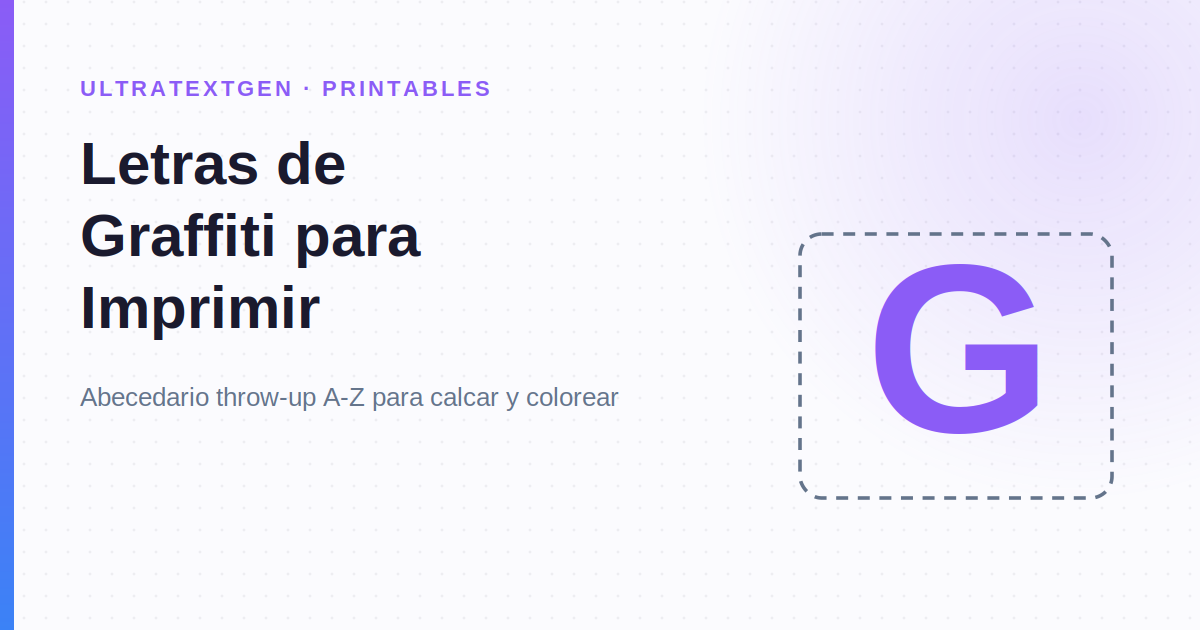
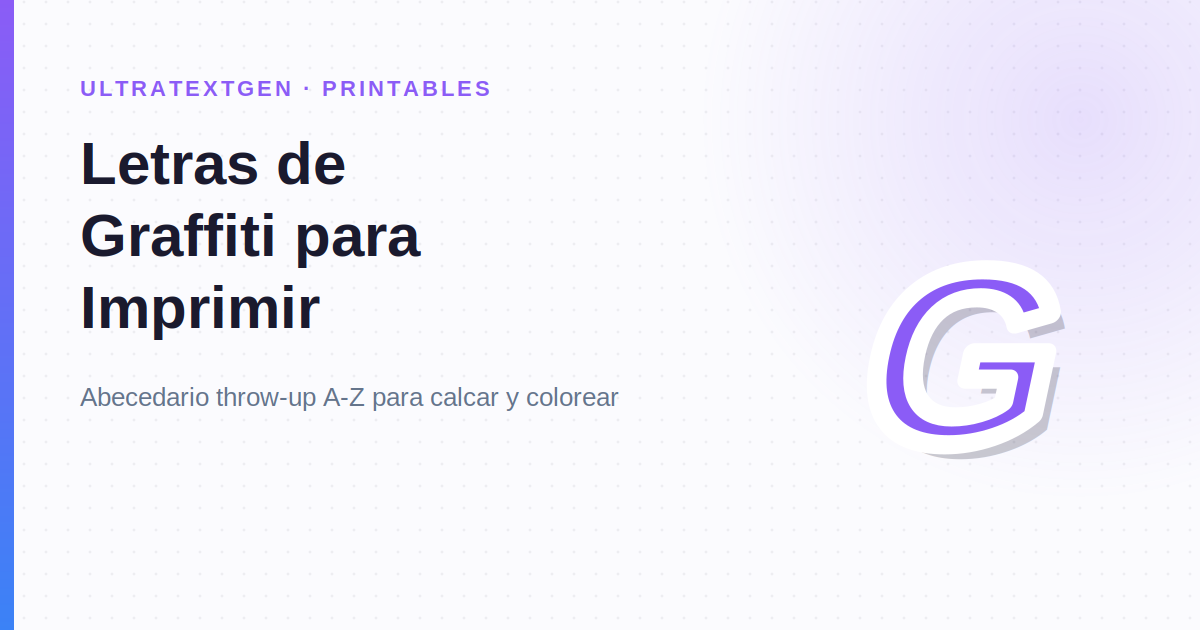
feat(printables): tell the cards apart, on the hub and in the share preview
OUT-09, OUT-10 and OUT-11 -- the three "these look identical" findings. All
three were unblocked by installing the art pipeline's own dependencies
(cairosvg, fontTools, fonts-noto-core/cjk): 8 of the 15 font paths
generate-site-art.py names were missing here, and CLAUDE.md is explicit that a
missing font silently DELETES glyphs from a regenerated card. Verified safe
before touching anything: a --force re-render of 37 untouched pages leaves
`git status` empty, so this container reproduces the committed art byte for
byte.

OUT-11 -- cursive vs calligraphy carried the SAME italic-serif "Aa" badge; only
the title differed (measured: 4.94% of pixels, nearly all of it the title).
The calligraphy card's own sub-label already said "blackletter & script", so
the badge now says it too, in real Fraktur. FreeSerif is the one installed face
covering U+1D504.., and cairosvg has no per-glyph fallback -- it takes the
first matched family and draws tofu for anything it lacks -- so FRAKTUR leads
with FreeSerif rather than falling back to it. Confirmed by reading the
rendered PNG, which is the only place it was visible.

OUT-09 -- the graffiti pages shared m_letter_stencil with block-letters, so the
card for the site's graffiti alphabet was a plain sans G inside a dashed CUT
LINE: a stencil job, on the one printable family that is not one. m_letter_
graffiti gives it slant, a heavy white keyline and a hard offset shadow, which
[…]

diff --git a/printables/index.html b/printables/index.html
@@ -348,14 +348,14 @@ window.__h82AlnkH6D91__("WyJwdWItODI0MjMyNDE2NDQxMzk0NSIsW251bGwsbnVsbCxudWxsLCJ
         </a>
 
         <a class="printable-card" href="/printables/alphabet-coloring-pages/" data-pt-job="colour" data-pt-input="ready">
-          <span class="printable-card-art" aria-hidden="true">A B C</span>
+          <span class="printable-card-art" aria-hidden="true">𝔸 𝔹 ℂ</span>
           <h3>Alphabet Coloring Pages</h3>
           <p>Clean single-line letter outlines A–Z to color and print: a page for every letter with an example word, plus a one-click print of the whole ABC.</p>
           <span class="printable-card-cta">Open alphabet coloring pages →</span>
         </a>
 
         <a class="printable-card" href="/printables/graffiti-letters/" data-pt-job="colour" data-pt-input="typed">
-          <span class="printable-card-art" aria-hidden="true">A B C</span>
+          <span class="printable-card-art" aria-hidden="true">FRESH</span>
           <h3>Graffiti Letters &amp; Graffiti Generator</h3>
           <p>The graffiti throw-up alphabet A–Z and 0–9 in fat outlines to trace and color, plus a generator: type your name, pick one of five graffiti styles, color it and download the PNG.</p>
           <span class="printable-card-cta">Open the graffiti generator →</span>
@@ -383,7 +383,7 @@ window.__h82AlnkH6D91__("WyJwdWItODI0MjMyNDE2NDQxMzk0NSIsW251bGwsbnVsbCxudWxsLCJ
         </a>
 
         <a class="printable-card" href="/printables/block-letters/" data-pt-job="craft" data-pt-input="ready">
-          <span class="printable-card-art" aria-hidden="true">A B C</span>
+          <span class="printable-card-art" aria-hidden="true">▢ ▣ ▤</span>
           <h3>Block Letters &amp; Stencils</h3>
           <p>Bold hollow block letters and numbers: letter stencils, alphabet stencils, and number stencils to print, trace, and cut out for signs, posters, and banners.</p>
           <span class="printable-card-cta">Open block letters →</span>
@@ -425,7 +425,7 @@ window.__h82AlnkH6D91__("WyJwdWItODI0MjMyNDE2NDQxMzk0NSIsW251bGwsbnVsbCxudWxsLCJ
         </a>
 
         <a class="printable-card" href="/printables/dot-to-dot-name/" data-pt-job="play" data-pt-input="typed">
-          <span class="printable-card-art" aria-hidden="true">1 2 3</span>
+          <span class="printable-card-art" aria-hidden="true">E·m·m·a</span>
           <h3>Dot-to-Dot Name Generator</h3>
           <p>Type any name to build a personalized connect-the-dots puzzle: numbered dots trace each letter, with adjustable difficulty from easy to expert. Print or download a PNG.</p>
           <span class="printable-card-cta">Open the dot-to-dot name generator →</span>

diff --git a/es/imprimibles/index.html b/es/imprimibles/index.html
@@ -235,7 +235,7 @@ window.__h82AlnkH6D91__("WyJwdWItODI0MjMyNDE2NDQxMzk0NSIsW251bGwsbnVsbCxudWxsLCJ
         </a>
 
         <a class="printable-card" href="/es/imprimibles/abecedario-para-colorear/">
-          <span class="printable-card-art" aria-hidden="true">A B C</span>
+          <span class="printable-card-art" aria-hidden="true">𝔸 𝔹 ℂ</span>
           <h3>Abecedario para colorear</h3>
           <p>Grandes contornos de letras A–Z para colorear e imprimir — una página para cada letra con una palabra de ejemplo, más la impresión de todo el alfabeto con un clic.</p>
           <span class="printable-card-cta">Abrir el abecedario para colorear →</span>
@@ -249,7 +249,7 @@ window.__h82AlnkH6D91__("WyJwdWItODI0MjMyNDE2NDQxMzk0NSIsW251bGwsbnVsbCxudWxsLCJ
         </a>
 
         <a class="printable-card" href="/es/imprimibles/letras-graffiti/">
-          <span class="printable-card-art" aria-hidden="true">A B C</span>
+          <span class="printable-card-art" aria-hidden="true">BARRIO</span>
           <h3>Letras de graffiti y generador de graffiti</h3>
           <p>El abecedario de graffiti estilo throw-up, A–Z y 0–9, en contornos gordos para calcar y colorear — más un generador: escribe tu nombre, elige uno de los cinco estilos, coloréalo y descarga el PNG.</p>
           <span class="printable-card-cta">Abrir el generador de graffiti →</span>

diff --git a/scripts/generate-site-art.py b/scripts/generate-site-art.py
@@ -46,6 +46,11 @@ PANEL2 = "#F2F1FB"
 SANS = "Liberation Sans, DejaVu Sans, sans-serif"
 SERIF = "Georgia, 'Liberation Serif', 'DejaVu Serif', serif"
 SYM = "DejaVu Sans, sans-serif"  # raster-safe symbol coverage
+# The one installed family covering Mathematical Fraktur / Script
+# (U+1D504.., U+1D49C..). cairosvg has no per-glyph fallback -- it takes the
+# first matched family and draws tofu for anything that family lacks -- so a
+# Fraktur sample has to lead with FreeSerif, not fall back to it.
+FRAKTUR = "FreeSerif, Georgia, serif"
 SYM_PRIMARY = "DejaVu Sans"      # SYM's first family; see spanned()
 
 # ---------------------------------------------------------------- shared defs
@@ -974,10 +979,40 @@ def m_letter_bubble(p, letter="A"):
           fill="#fff" text-anchor="middle">{esc(letter)}</text>"""
 
 
+def m_letter_graffiti(p, letter="G"):
+    """A slanted throw-up letter with a white keyline and a hard offset shadow
+    - graffiti printables.
+
+    OUT-09: these pages shared m_letter_stencil with block-letters, so the card
+    for the site's graffiti alphabet was a plain sans G inside a dashed CUT
+    LINE - a stencil job, on the one printable family that is not one. Slant, a
+    heavy keyline and an offset drop shadow are the three marks of a throw-up,
+    and none of them needs a graffiti typeface, which this pipeline has no way
+    to load: it draws in Liberation and DejaVu, never in a page's own webfont.
+    """
+    l = esc(letter)
+    return f"""
+    <g transform="translate(180 200) skewX(-12) translate(-180 -200)">
+      <text x="194" y="256" font-family="{SANS}" font-size="205" font-weight="800"
+            fill="{INK}" opacity="0.22" text-anchor="middle">{l}</text>
+      <text x="180" y="244" font-family="{SANS}" font-size="205" font-weight="800"
+            fill="url(#g{p})" stroke="#fff" stroke-width="16" paint-order="stroke"
+            stroke-linejoin="round" text-anchor="middle">{l}</text>
+    </g>"""
+
+
 def m_letter_cursive(p, letter="A"):
     """Capital + lowercase pair in italic serif — cursive per-letter printables.
     Italic serif is the raster-safe stand-in for script glyphs (the Unicode
-    Mathematical Script block does not rasterize in the bundled fonts)."""
+    Mathematical Script block does not rasterize in the bundled fonts).
+
+    Correction, 2026-09-17: that parenthesis is no longer true. FreeSerif, which
+    this file already lists among its fallback faces, covers U+1D49C.. and
+    U+1D504..; measured by rendering, the calligraphy card now draws real
+    Fraktur through it (see FRAKTUR). These 26 per-letter cards are left on
+    italic serif DELIBERATELY rather than by that constraint: changing them is a
+    26-page re-render on a live cluster and a letterform decision, not a
+    rasterisation fact."""
     return f"""
     <rect x="40" y="90" width="280" height="200" rx="36" fill="url(#g{p})"/>
     <line x1="70" y1="252" x2="290" y2="252" stroke="#fff" stroke-width="3" opacity="0.55" stroke-dasharray="2 7"/>
@@ -2911,7 +2946,7 @@ PAGES.update({
 "events-valentines-day": ("Valentine's Day Text Generator", "Hearts, roses, and Be My Valentine phrases to style", m_heart, K_USE),
 "printables-banner-maker": ("Printable Banner Maker", "One flag per letter, cut and strung to spell any word", m_banner, K_PRINT),
 "printables-block-letters": ("Printable Block Letters & Stencils", "Bold hollow A-Z & 0-9 stencils to trace, cut and use", P(m_letter_stencil, letter="B"), K_PRINT),
-"printables-calligraphy-alphabet": ("Calligraphy Alphabet", "Blackletter and script letters to trace and print", P(m_typo, sample="Aa", ff=SERIF, weight="800", style="italic", size=90, label="blackletter & script"), K_PRINT),
+"printables-calligraphy-alphabet": ("Calligraphy Alphabet", "Blackletter and script letters to trace and print", P(m_typo, sample="\U0001D504\U0001D51E", ff=FRAKTUR, weight="400", style="normal", size=104, label="blackletter & script"), K_PRINT),
 "printables-coloring-page-maker": ("Coloring Page Maker", "Any name or word becomes a colorable outline to print", m_crayons, K_PRINT),
 "printables-dot-to-dot-name": ("Dot-to-Dot Name Generator", "Any name becomes a personalized connect-the-dots", P(m_letter_dots, letter="Em"), K_PRINT),
 "printables-cursive-alphabet": ("Cursive Alphabet", "Cursive A-Z practice sheets to trace and print", P(m_typo, sample="Aa", ff=SERIF, style="italic", weight="400", size=92, label="cursive practice"), K_PRINT),
@@ -2943,12 +2978,12 @@ PAGES.update({
 "fr-imprimables-alphabet-point-de-croix": ("Alphabet Point de Croix", "N'importe quel mot en grille de points", m_grid, K_PRINT),
 "es-imprimibles-letras-punteadas": ("Letras Punteadas para Imprimir", "Abecedario A-Z en puntos numerados para unir", P(m_letter_dots, letter="A"), K_PRINT),
 # 2026-08-12 ES printables gap-fill + graffiti EN parent.
-"printables-graffiti-letters": ("Printable Graffiti Letters", "Throw-up alphabet A-Z to trace, outline and colour", P(m_letter_stencil, letter="G"), K_PRINT),
-"es-imprimibles-letras-graffiti": ("Letras de Graffiti para Imprimir", "Abecedario throw-up A-Z para calcar y colorear", P(m_letter_stencil, letter="G"), K_PRINT),
-"de-zum-ausdrucken-graffiti-buchstaben": ("Graffiti-Buchstaben zum Ausdrucken", "Throw-up-Alphabet A-Z zum Nachzeichnen und Ausmalen", P(m_letter_stencil, letter="G"), K_PRINT),
-"fr-imprimables-lettres-graffiti": ("Lettres Graffiti à Imprimer", "Alphabet throw-up A-Z à décalquer et à colorier", P(m_letter_stencil, letter="G"), K_PRINT),
+"printables-graffiti-letters": ("Printable Graffiti Letters", "Throw-up alphabet A-Z to trace, outline and colour", P(m_letter_graffiti, letter="G"), K_PRINT),
+"es-imprimibles-letras-graffiti": ("Letras de Graffiti para Imprimir", "Abecedario throw-up A-Z para calcar y colorear", P(m_letter_graffiti, letter="G"), K_PRINT),
+"de-zum-ausdrucken-graffiti-buchstaben": ("Graffiti-Buchstaben zum Ausdrucken", "Throw-up-Alphabet A-Z zum Nachzeichnen und Ausmalen", P(m_letter_graffiti, letter="G"), K_PRINT),
+"fr-imprimables-lettres-graffiti": ("Lettres Graffiti à Imprimer", "Alphabet throw-up A-Z à décalquer et à colorier", P(m_letter_graffiti, letter="G"), K_PRINT),
 # 2026-08-13 graffiti-generator pass: ID translation of the graffiti EN parent.
-"id-printables-grafiti-nama": ("Grafiti Nama", "Generator grafiti nama + huruf grafiti A-Z untuk dicetak", P(m_letter_stencil, letter="G"), K_PRINT),
+"id-printables-grafiti-nama": ("Grafiti Nama", "Generator grafiti nama + huruf grafiti A-Z untuk dicetak", P(m_letter_graffiti, letter="G"), K_PRINT),
 "es-imprimibles-caligrafia": ("Caligrafia: Abecedario A-Z", "Cursiva inglesa, gotica y script para imprimir", P(m_typo, sample="Aa", ff=SERIF, weight="800", style="italic", size=90, label="caligrafia A-Z"), K_PRINT),
 "es-imprimibles-moldes-de-letras": ("Moldes de Letras para Imprimir", "Plantillas huecas A-Z y 0-9 para recortar y pintar", P(m_letter_stencil, letter="M"), K_PRINT),
 "de-zum-ausdrucken-buchstaben-vorlagen": ("Buchstaben zum Ausdrucken", "Hohle Vorlagen A-Z und 0-9 zum Ausschneiden", P(m_letter_stencil, letter="B"), K_PRINT),
